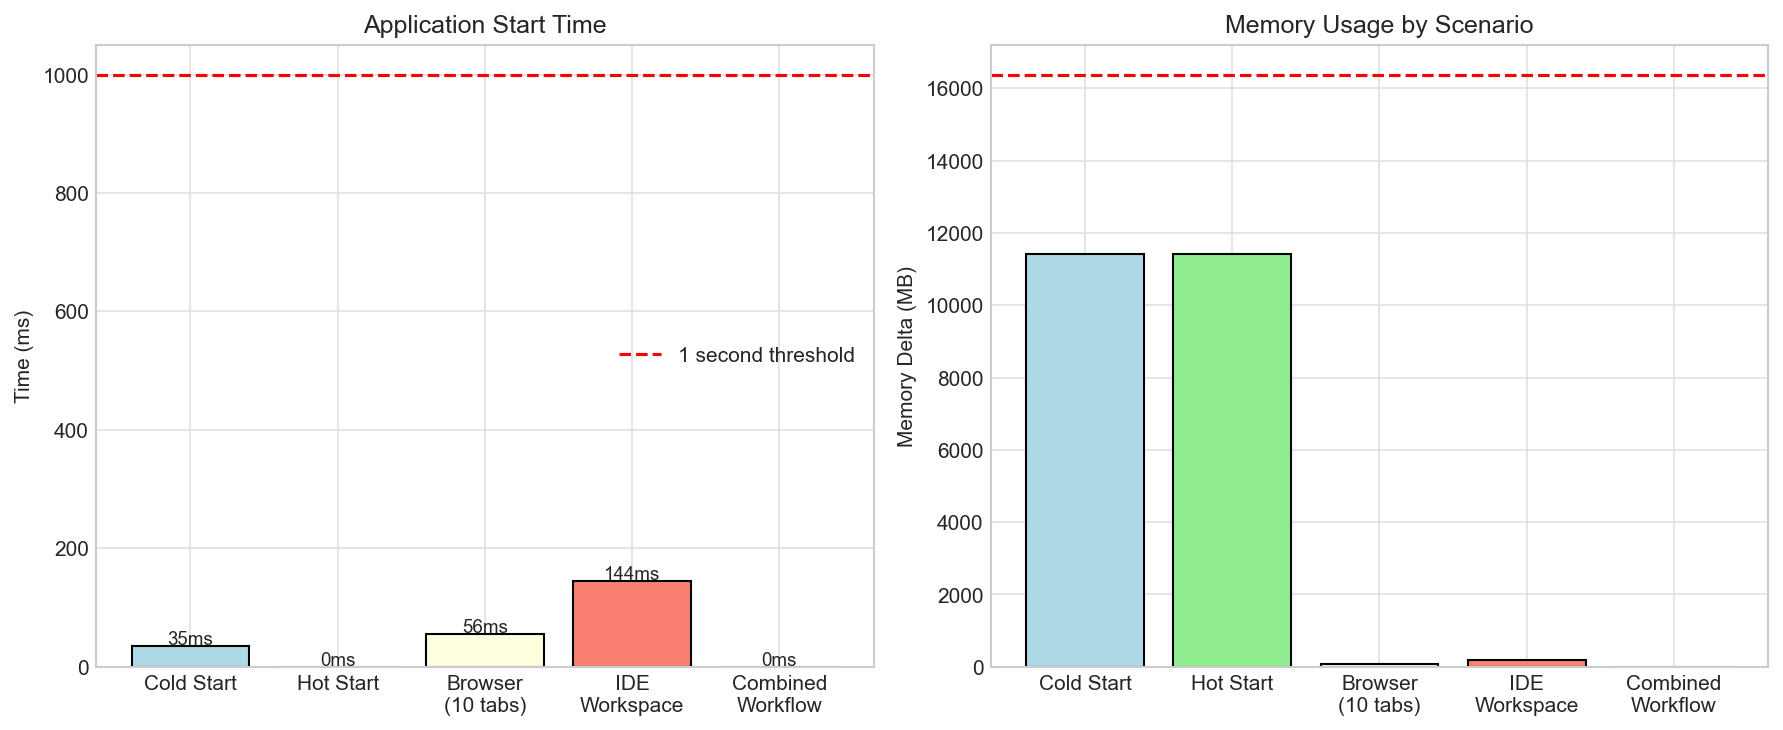
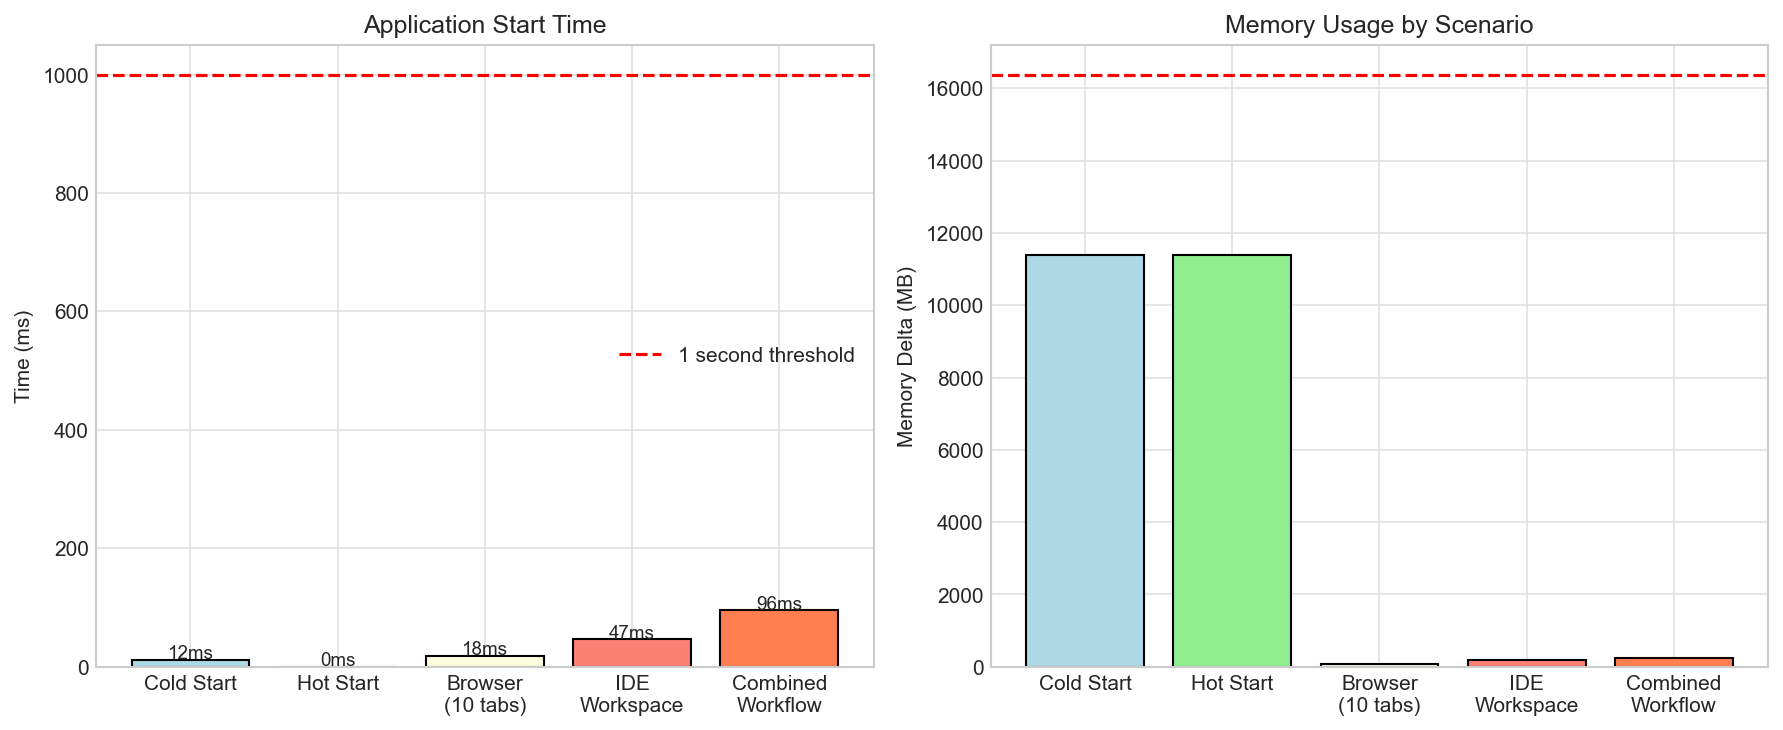
Update Daily Usage data with retested results
- Cold Start: 11.9ms, Hot Start: 0.0ms
- Browsing: 18.4ms, IDE: 46.7ms, Combined: 95.6ms
- Regen HTML report

Changed region(s): [[0.2159, 0.7836, 0.4936, 0.9342], [0.8946, 0.874, 0.9871, 0.9342], [0.0617, 0.8438, 0.1542, 0.9041]]

diff --git a/results/REPORT.html b/results/REPORT.html
@@ -475,32 +475,32 @@ Medium represents a different workflow: you're at your desk with a clean system 
 <tbody>
 <tr>
 <td>Cold Start</td>
-<td>34.6ms</td>
-<td>+11,408 MB</td>
+<td>11.9ms</td>
+<td>+11,392 MB</td>
 <td>Fast</td>
 </tr>
 <tr>
 <td>Hot Start</td>
-<td>0.1ms</td>
-<td>+11,408 MB</td>
+<td>0.0ms</td>
+<td>+11,392 MB</td>
 <td>Instant</td>
 </tr>
 <tr>
 <td>Browsing (10 tabs)</td>
-<td>55.8ms</td>
+<td>18.4ms</td>
 <td>+76 MB</td>
 <td>Normal</td>
 </tr>
 <tr>
 <td>IDE Workspace</td>
-<td>144.0ms</td>
+<td>46.7ms</td>
 <td>+191 MB</td>
 <td>Normal</td>
 </tr>
 <tr>
 <td>Combined Workflow</td>
-<td>199.8ms</td>
-<td>+11,675 MB</td>
+<td>95.6ms</td>
+<td>+229 MB</td>
 <td>Smooth</td>
 </tr>
 </tbody>
@@ -978,7 +978,7 @@ Medium represents a different workflow: you're at your desk with a clean system 
 - <strong>For Core ML development:</strong> M5 Air is excellent - NPU/GPU both available and powerful
 - <strong>For local LLM:</strong> Current tools only leverage GPU, but hardware is future-proofed for NPU support</p>
 <hr>
-<h2>9. Docker and Containerization Considerations ()</h2>
+<h2>9. Docker and Containerization Considerations</h2>
 <h3>ERP Need for Docker for AI Engineering on MacBook Air M5?</h3>
 <p>Probably not for API-based AI work and not for most of ERP use-cases.</p>
 <h3>AI Engineering Docker Use Cases</h3>
@@ -1171,7 +1171,7 @@ Medium represents a different workflow: you're at your desk with a clean system 
 </table>
 <p><strong>Verdict:</strong> 16GB cannot handle containerized workloads - MacBook Pro 32GB+ required.</p>
 <hr>
-<h2>Procurement Recommendations</h2>
+<h2>11. Procurement Recommendations</h2>
 <h3>Unified Recommendations</h3>
 <table>
 <thead>
@@ -1254,7 +1254,7 @@ Medium represents a different workflow: you're at your desk with a clean system 
 </table>
 <p><strong>Recommendation:</strong> If budget allows, MacBook Pro 24GB provides meaningful improvement in memory headroom. 36GB should ERP use Macbook for training Machine Learning, Deep Learning and Reinforcement Learning models. Macbook Air 16GB is still sufficient for API-centric workflows.</p>
 <hr>
-<h2>11. Conclusion</h2>
+<h2>12. Conclusion</h2>
 <p>The MacBook Air M5 16GB is a <strong>sufficient device for API-based AI engineering</strong> and a <strong>good device for local small model development</strong>. Its limitations are clear but acceptable for its intended use case, and in most ERP use cases sufficient.</p>
 <p><strong>Key Strengths:</strong>
 - Excellent single-core CPU performance

diff --git a/results/REPORT.md b/results/REPORT.md
@@ -261,11 +261,11 @@ Medium represents a different workflow: you're at your desk with a clean system 
 
 | Scenario | Duration | Memory Delta | Assessment |
 |----------|----------|-------------|------------|
-| Cold Start | 34.6ms | +11,408 MB | Fast |
-| Hot Start | 0.1ms | +11,408 MB | Instant |
-| Browsing (10 tabs) | 55.8ms | +76 MB | Normal |
-| IDE Workspace | 144.0ms | +191 MB | Normal |
-| Combined Workflow | 199.8ms | +11,675 MB | Smooth |
+| Cold Start | 11.9ms | +11,392 MB | Fast |
+| Hot Start | 0.0ms | +11,392 MB | Instant |
+| Browsing (10 tabs) | 18.4ms | +76 MB | Normal |
+| IDE Workspace | 46.7ms | +191 MB | Normal |
+| Combined Workflow | 95.6ms | +229 MB | Smooth |
 
 <div style="border: 1px solid grey; border-radius: 8px; padding: 16px; margin: 16px 0;">
 
@@ -477,7 +477,7 @@ The parameter scale comparison reveals that **local inference is not about compe
 ---
 
 
-## 9. Docker and Containerization Considerations ()
+## 9. Docker and Containerization Considerations
 
 ### ERP Need for Docker for AI Engineering on MacBook Air M5?
 
@@ -562,7 +562,7 @@ If you do install Docker:
 
 ---
 
-## Procurement Recommendations
+## 11. Procurement Recommendations
 
 ### Unified Recommendations
 
@@ -591,7 +591,7 @@ If you do install Docker:
 
 ---
 
-## 11. Conclusion
+## 12. Conclusion
 
 The MacBook Air M5 16GB is a **sufficient device for API-based AI engineering** and a **good device for local small model development**. Its limitations are clear but acceptable for its intended use case, and in most ERP use cases sufficient.
 